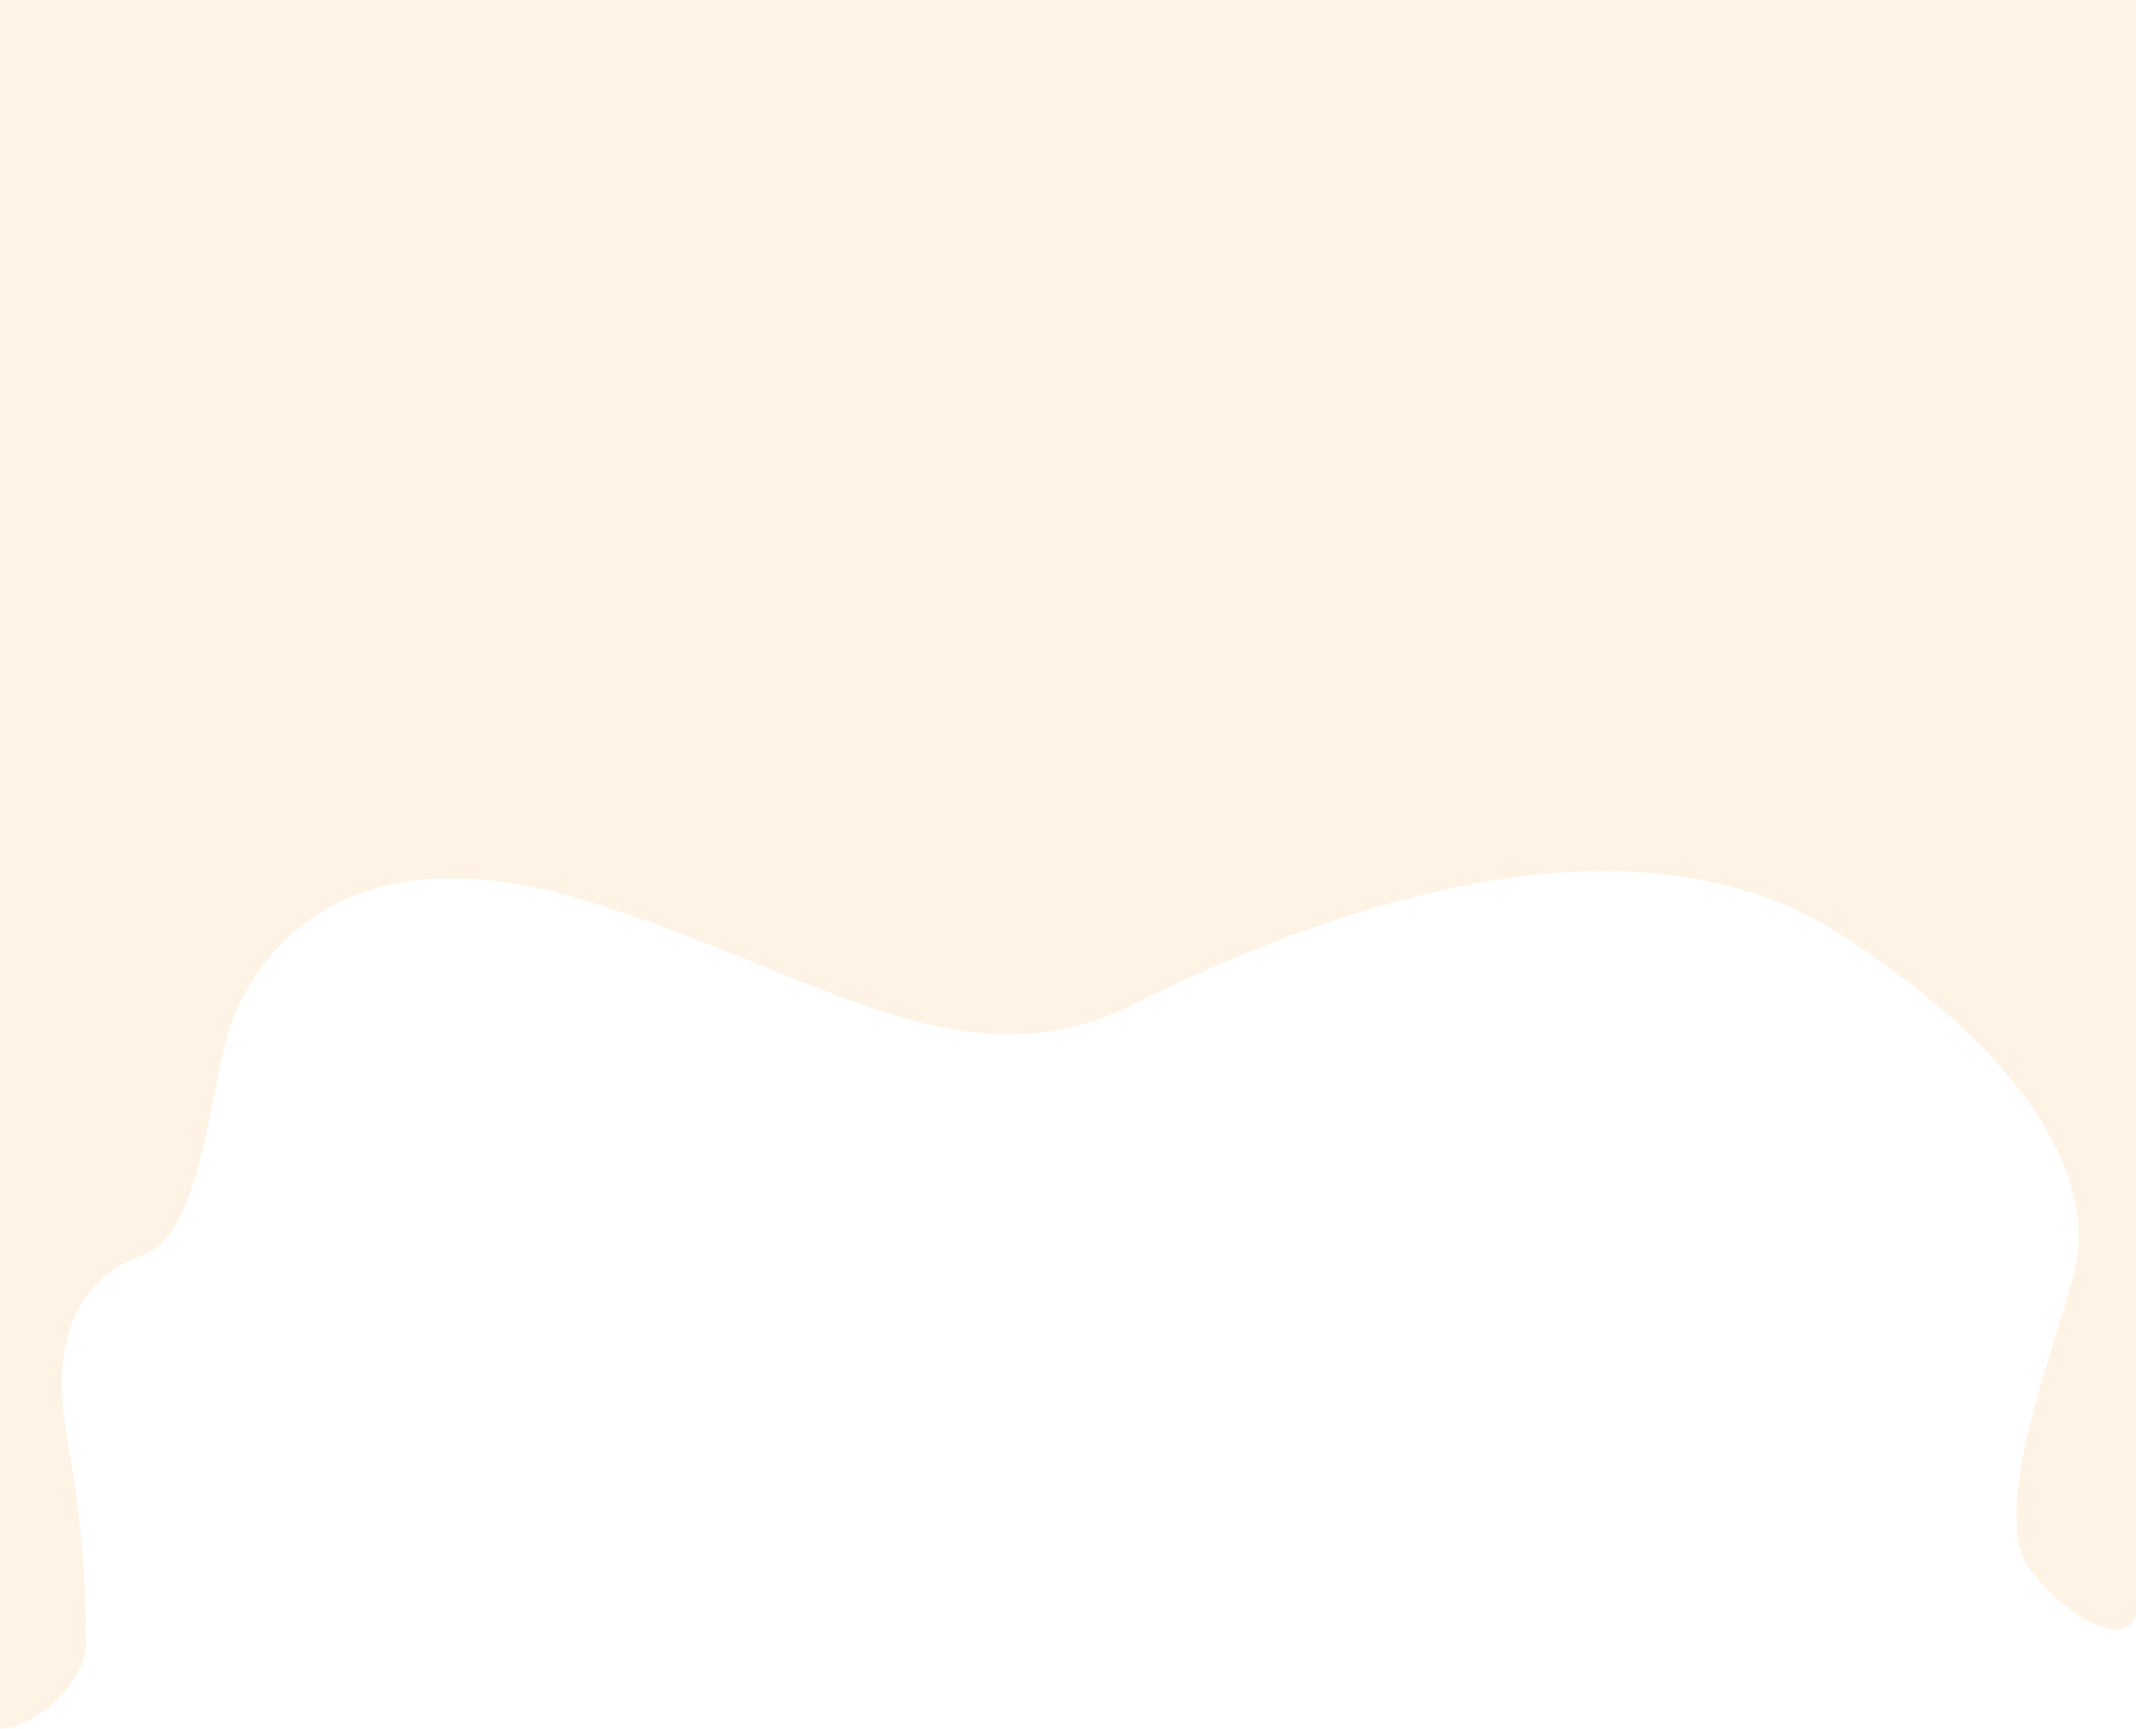
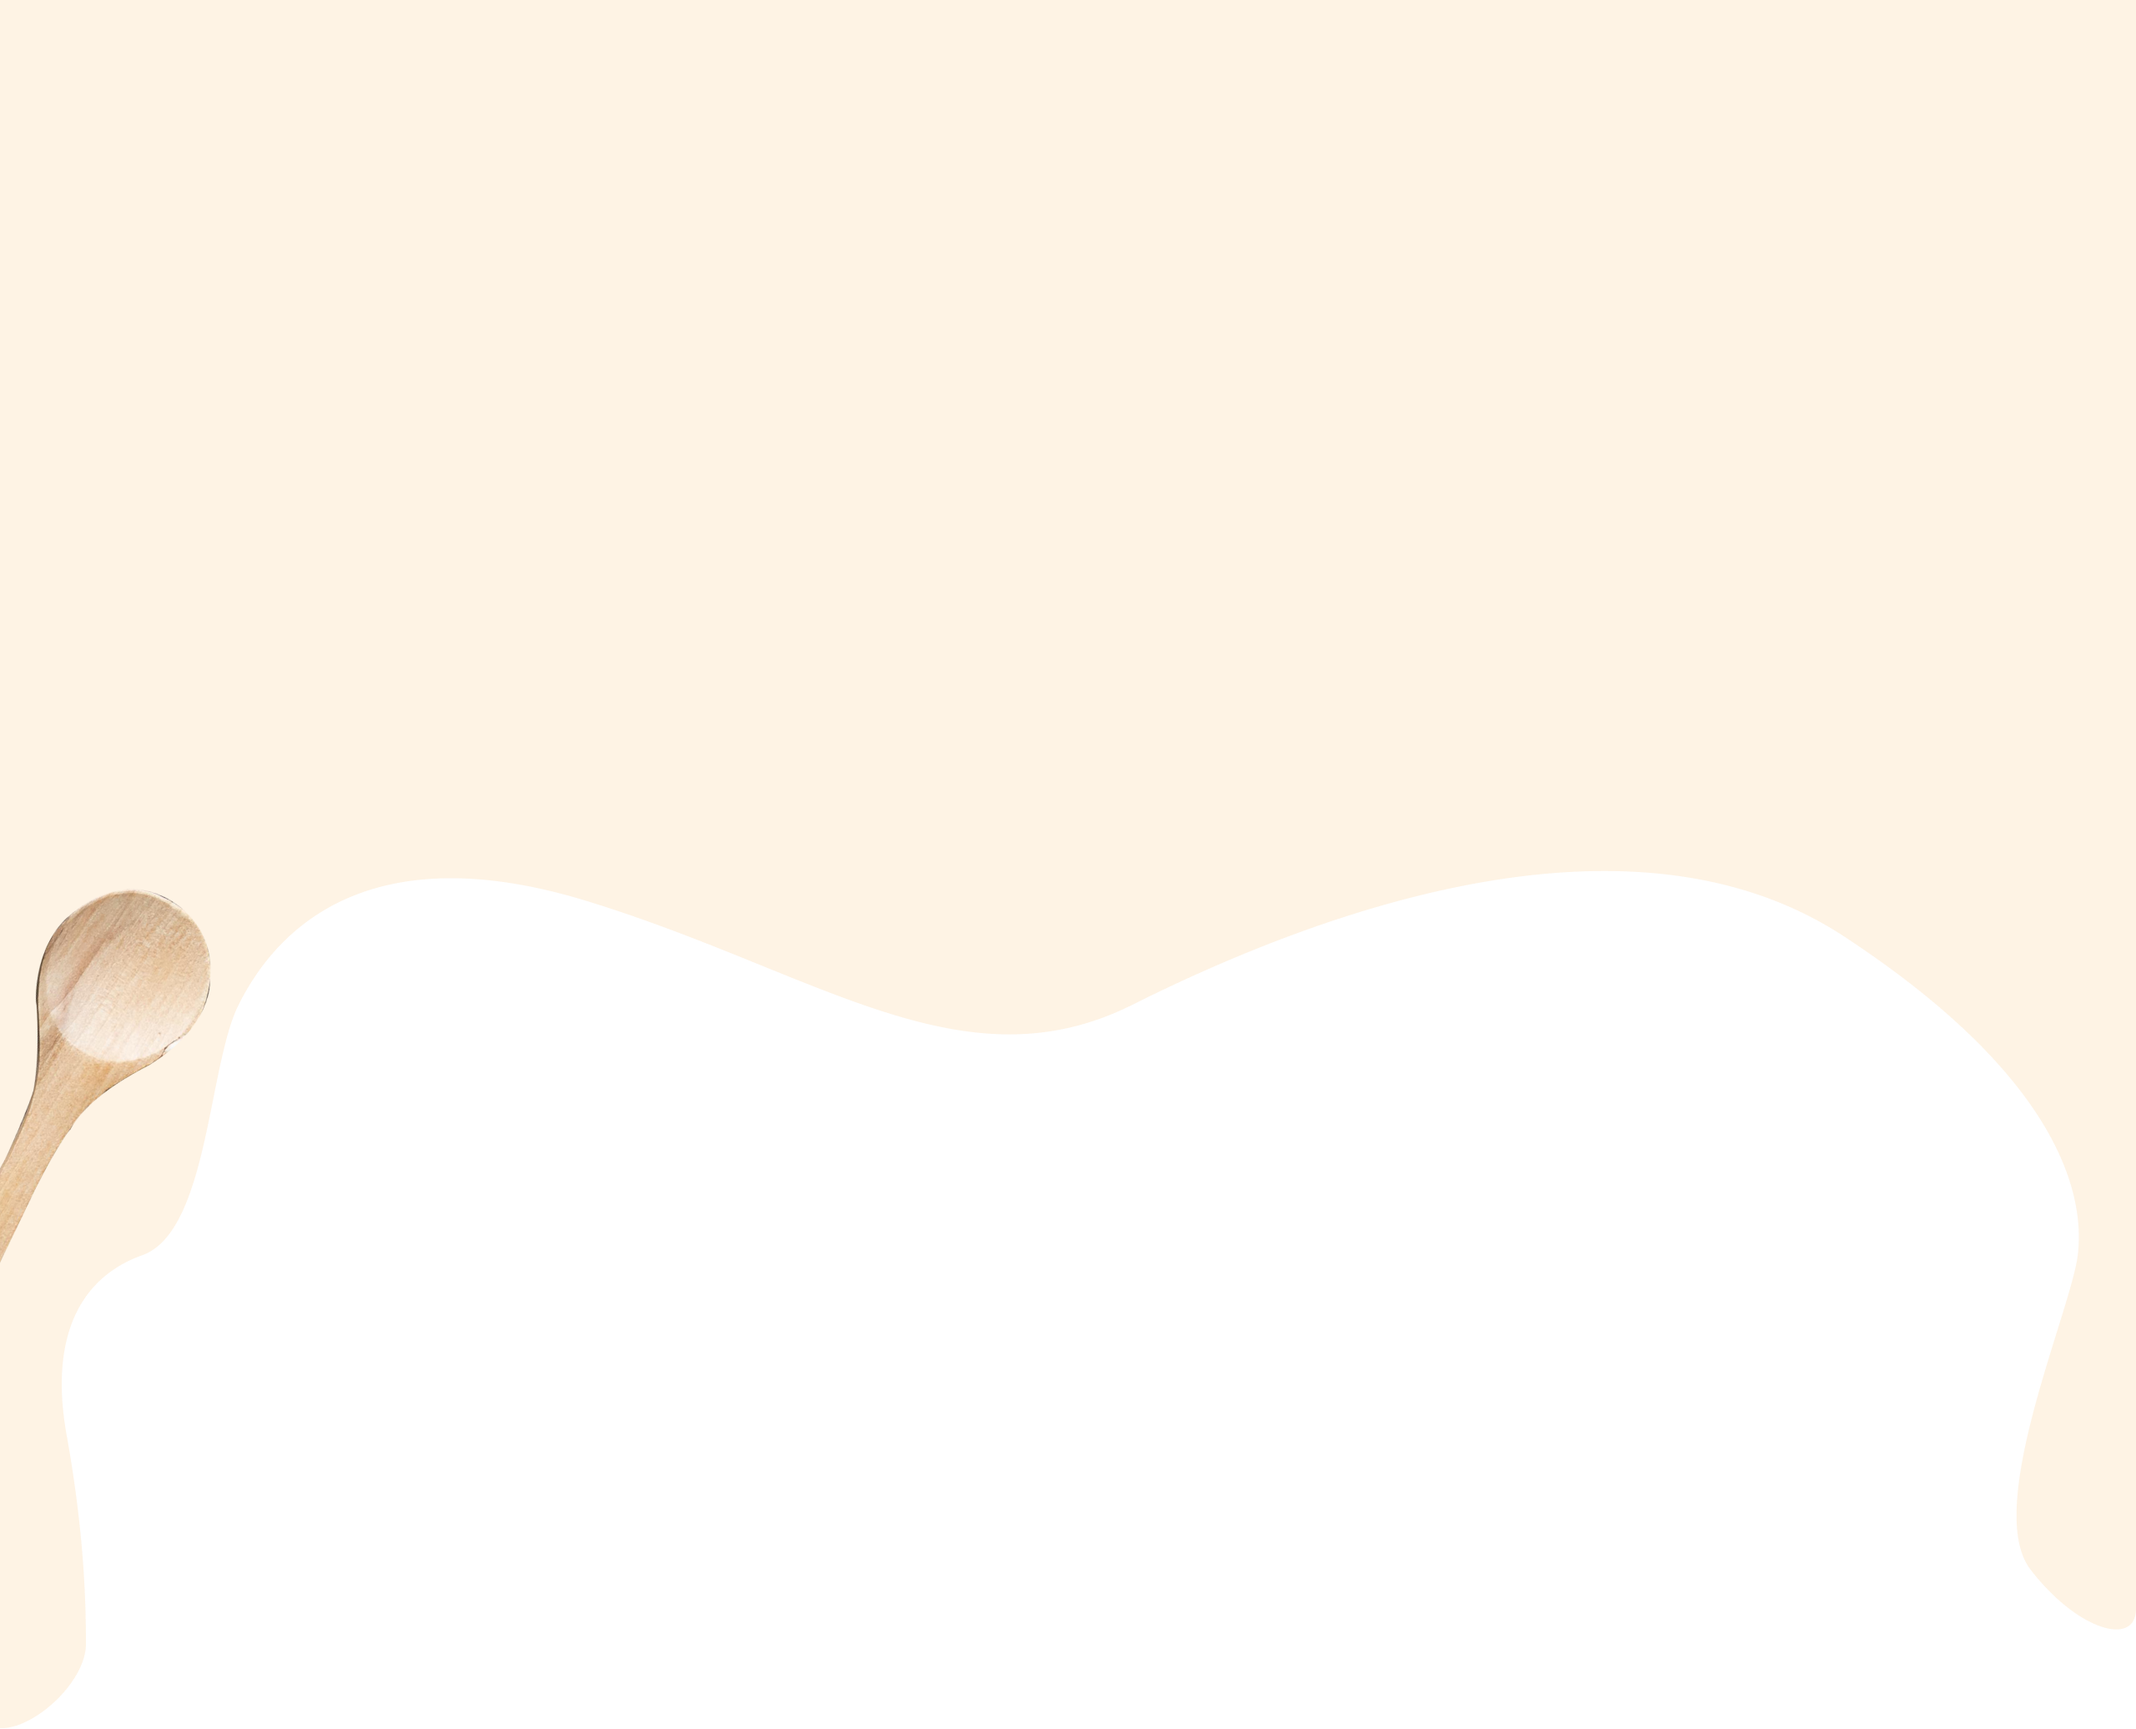
bg fix

Changed region(s): [[0.0, 0.4942, 0.125, 0.7104]]

diff --git a/src/sass/base/_base.scss b/src/sass/base/_base.scss
@@ -10,6 +10,41 @@ body {
   line-height: 1.25;
   padding-bottom: 0;
   background-color: var(--regestration-box-clr);
+  background-repeat: no-repeat;
+  background-position: center top, center bottom 211px;
+  background-size: 100% 460px, 100% 1303px;
+  background-image: url(../images/mobile/header-bg/mobile-header-bg.png),
+    url(../images/mobile/reviews-bg/bg.png);
+  @media (min-device-pixel-ratio: 2),
+    (min-resolution: 192dpi),
+    (min-resolution: 2dppx) {
+    background-image: url(../images/mobile/header-bg/mobile-header-bg@2x.png),
+      url(../images/mobile/reviews-bg/bg@2x.png);
+  }
+  @media screen and (min-width: 768px) {
+    background-position: center top, center bottom 101px;
+    background-size: 100% 622px, 100% 1456px;
+    background-image: url(../images/tablet/header-bg/tablet-header-bg.png),
+      url(../images/tablet/reviews-bg/bg.png);
+    @media (min-device-pixel-ratio: 2),
+      (min-resolution: 192dpi),
+      (min-resolution: 2dppx) {
+      background-image: url(../images/tablet/header-bg/tablet-header-bg@2x.png),
+        url(../images/tablet/reviews-bg/bg@2x.png);
+    }
+  }
+  @media screen and (min-width: 1280px) {
+    background-position: center top, center bottom;
+    background-size: 100% 1035px, 100% 2073px;
+    background-image: url(../images/desktop/header-bg/desktop-header-bg@1x.png),
+      url(../images/desktop/reviews-bg/bg.png);
+    @media (min-device-pixel-ratio: 2),
+      (min-resolution: 192dpi),
+      (min-resolution: 2dppx) {
+      background-image: url(../images/desktop/header-bg/desktop-header-bg@2x.png),
+        url(../images/desktop/reviews-bg/bg@2x.png);
+    }
+  }
 }
 
 .section {

diff --git a/src/partials/header.html b/src/partials/header.html
@@ -1,6 +1,6 @@
 <header id="header">
   <div class="header__container container">
-    <picture class="header-bg">
+    <!-- <picture class="header-bg">
       <source
         media="(min-width: 1280px)"
         srcset="
@@ -27,7 +27,7 @@
         src="./images/mobile/header/header-donuts@1x.png"
         alt="DONUTS!"
         aria-hidden="true"
-    /></picture>
+    /></picture> -->
     <button
       class="menu-btn hamburger hamburger--stand"
       type="button"
@@ -163,7 +163,7 @@
           </a>
         </li>
       </ul>
-      <picture class="header-content__pic">
+      <!-- <picture class="header-content__pic">
         <source
           media="(min-width: 1280px)"
           srcset="
@@ -173,7 +173,7 @@
           sizes="(min-width: 1280px) 716px, 100vw" />
 
         <img src="./images/desktop/header/header-spoon@1x.png" alt="Spoon"
-      /></picture>
+      /></picture> -->
     </div>
   </div>
 </header>
